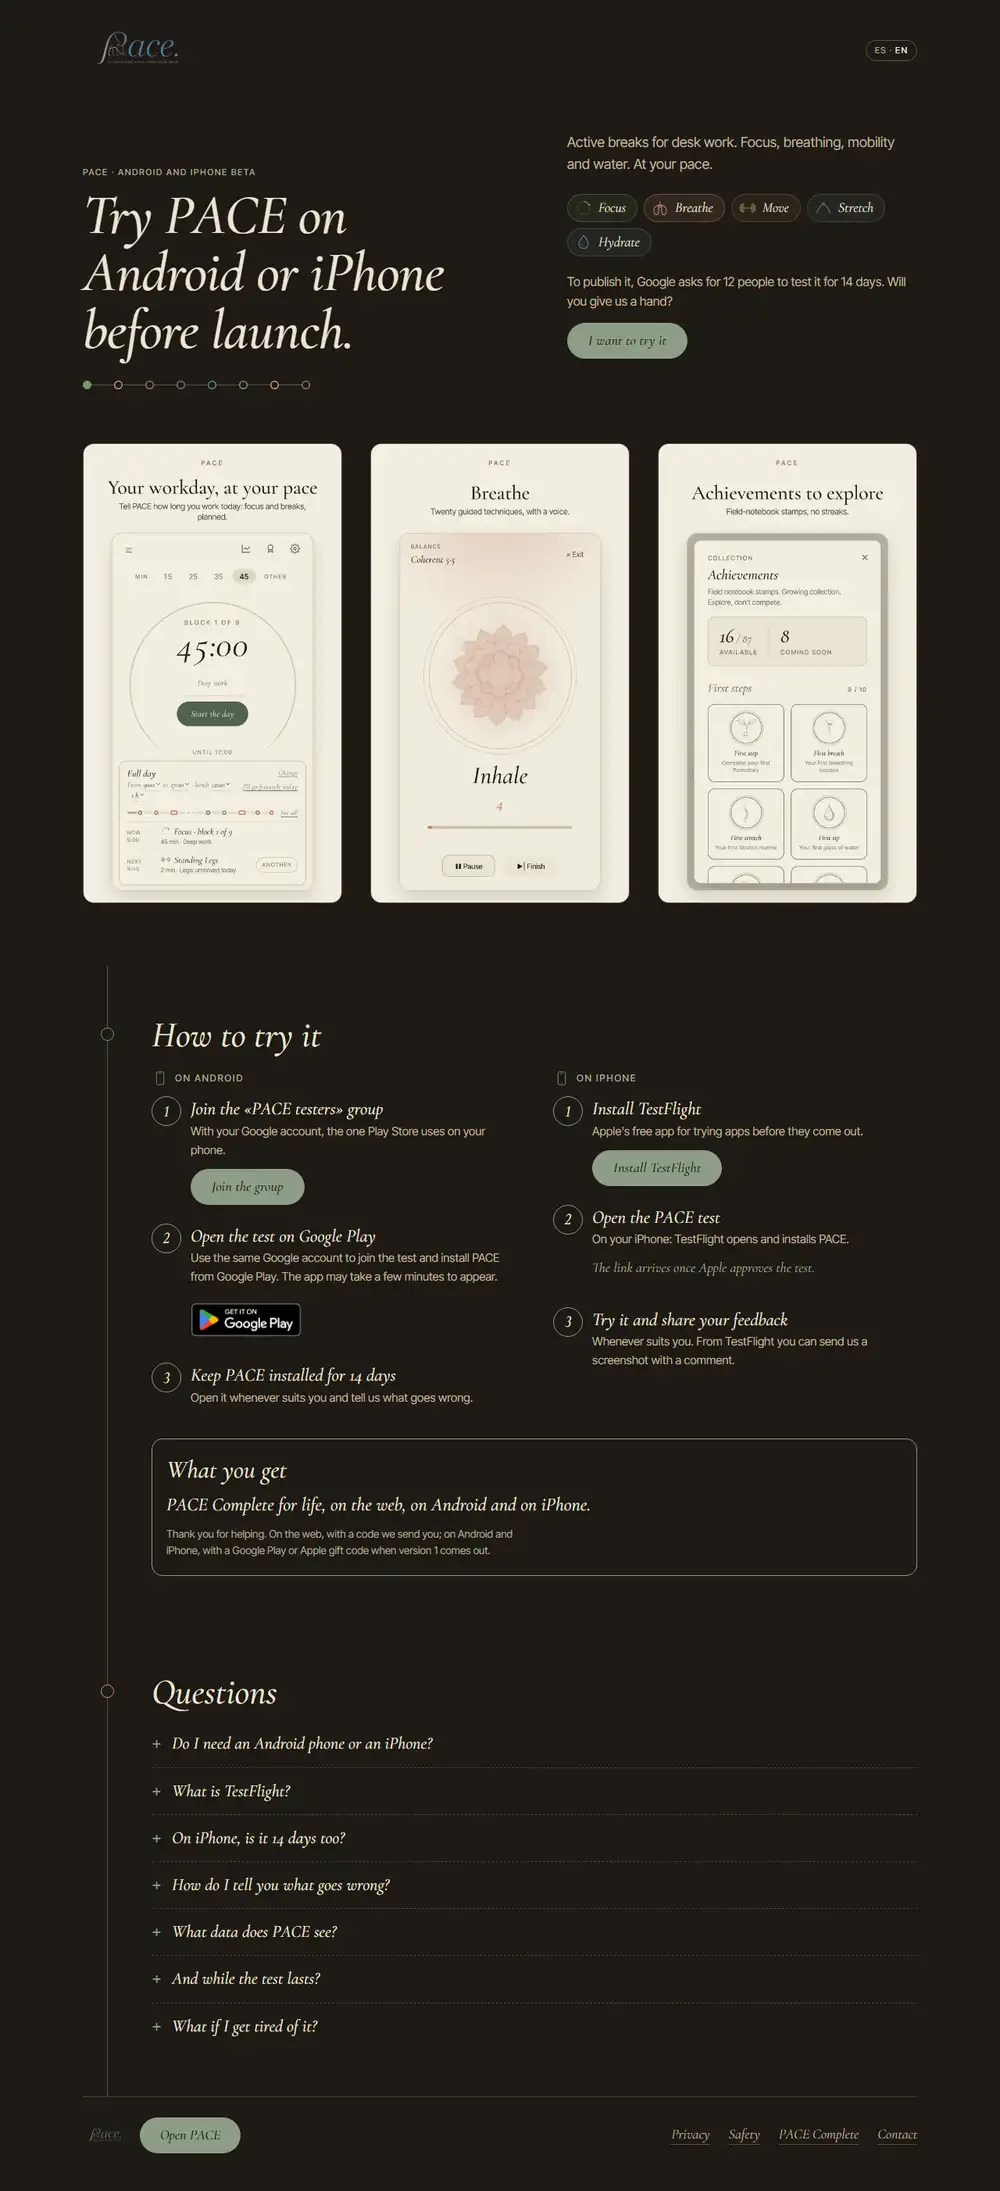
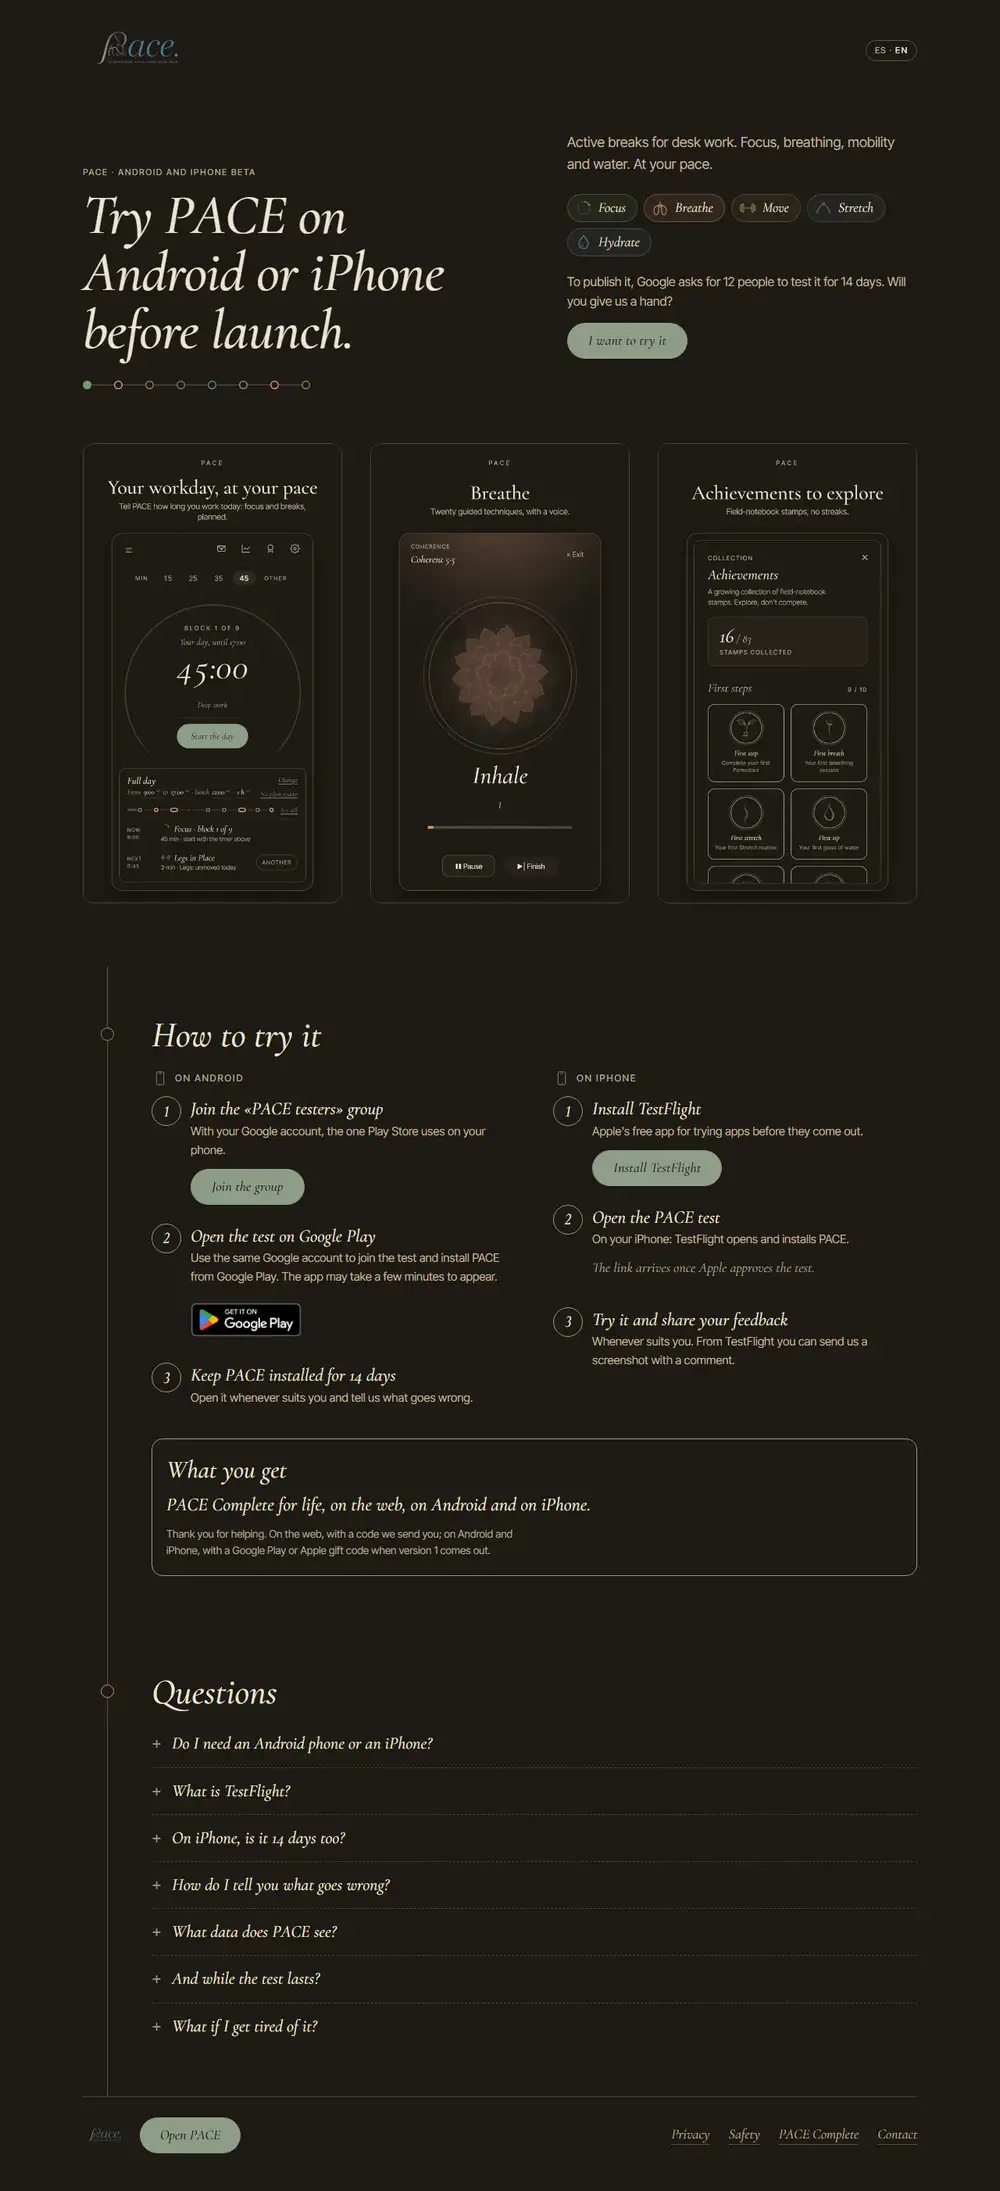
docs: la página de la web con las capturas en oscuro montadas (versión 5)
«Montada: la B» enseña las tres páginas en claro y en oscuro, y la letra 2 pasa a hecha.

Changed region(s): [[0.372, 0.1862, 0.93, 0.4345], [0.062, 0.1862, 0.341, 0.4345]]

diff --git a/docs/proposals/web-estetica-9nov/pagina.js b/docs/proposals/web-estetica-9nov/pagina.js
@@ -93,9 +93,12 @@ const html = `<title>Tres direcciones para la web</title>
   <h2>Montada: la B</h2>
   <p>Las tres páginas tal como quedan, sacadas de la rama. En el visor de más abajo están todas: «Montada», en los dos idiomas, los dos temas, el móvil y el ordenador; en el móvil, con la maqueta de la B al lado.</p>
   <div class="escena">
-    <div class="pantalla movil"><h3>Landing</h3><div class="vidrio"><img src="fotos/montada-landing-360-es-claro.webp" alt="La landing con la B montada, en el móvil" loading="lazy"></div><p class="pie">360 px · castellano · claro</p></div>
-    <div class="pantalla movil"><h3>PACE completo</h3><div class="vidrio"><img src="fotos/montada-premium-360-es-claro.webp" alt="PACE completo con la B montada, en el móvil" loading="lazy"></div><p class="pie">360 px · castellano · claro</p></div>
-    <div class="pantalla movil"><h3>Beta</h3><div class="vidrio"><img src="fotos/montada-beta-360-es-claro.webp" alt="/beta con la B montada, en el móvil" loading="lazy"></div><p class="pie">360 px · castellano · claro</p></div>
+    <div class="pantalla movil"><h3>Landing</h3><div class="vidrio"><img src="fotos/montada-landing-360-es-claro.webp" alt="La landing con la B montada, en el móvil, en claro" loading="lazy"></div><p class="pie">360 px · castellano · claro</p></div>
+    <div class="pantalla movil"><h3>PACE completo</h3><div class="vidrio"><img src="fotos/montada-premium-360-es-claro.webp" alt="PACE completo con la B montada, en el móvil, en claro" loading="lazy"></div><p class="pie">360 px · castellano · claro</p></div>
+    <div class="pantalla movil"><h3>Beta</h3><div class="vidrio"><img src="fotos/montada-beta-360-es-claro.webp" alt="/beta con la B montada, en el móvil, en claro" loading="lazy"></div><p class="pie">360 px · castellano · claro</p></div>
+    <div class="pantalla movil"><h3>Landing</h3><div class="vidrio"><img src="fotos/montada-landing-360-es-oscuro.webp" alt="La landing con la B montada, en el móvil, en oscuro" loading="lazy"></div><p class="pie">360 px · castellano · oscuro</p></div>
+    <div class="pantalla movil"><h3>PACE completo</h3><div class="vidrio"><img src="fotos/montada-premium-360-es-oscuro.webp" alt="PACE completo con la B montada, en el móvil, en oscuro" loading="lazy"></div><p class="pie">360 px · castellano · oscuro</p></div>
+    <div class="pantalla movil"><h3>Beta</h3><div class="vidrio"><img src="fotos/montada-beta-360-es-oscuro.webp" alt="/beta con la B montada, en el móvil, en oscuro" loading="lazy"></div><p class="pie">360 px · castellano · oscuro</p></div>
   </div>
   <h3 style="margin-top:28px">Lo que cambia respecto a la maqueta</h3>
   <ul class="defectos" style="counter-reset:none">
@@ -108,7 +111,7 @@ const html = `<title>Tres direcciones para la web</title>
     <li style="grid-template-columns:1fr"><span><b>3 · El pie enlaza a las otras dos páginas: sí.</b> Con textos que ya existían: «Android e iPhone» en la landing y en PACE completo, «PACE completo» en /beta.</span></li>
     <li style="grid-template-columns:1fr"><span><b>4 · La pantalla de la app de PACE completo, en su idioma y su tema: sí.</b> Sacada de la app de la rama; la de antes salía en castellano y en claro.</span></li>
     <li style="grid-template-columns:1fr"><span><b>5 · El idioma de entrada, como la landing: sí.</b> PACE completo y /beta salen en castellano si el navegador está en castellano y, si no, en inglés.</span></li>
-    <li style="grid-template-columns:1fr"><span><b>2 · Las capturas en oscuro: sí, pero en otra tanda.</b> Son dieciséis capturas con su marco que hay que rehacer; hasta entonces, en oscuro siguen saliendo en claro, como hoy.</span></li>
+    <li style="grid-template-columns:1fr"><span><b>2 · Las capturas en oscuro: sí.</b> Las dieciséis de /beta y de PACE completo, rehechas con la app de la rama y su marco en oscuro; cada navegador baja solo las de su tema.</span></li>
   </ul>
   <p class="nota">Lo de abajo es la propuesta tal como la viste: los defectos de antes, las tres direcciones y tus letras.</p>
 

diff --git a/docs/proposals/web-estetica-9nov/index.html b/docs/proposals/web-estetica-9nov/index.html
@@ -70,9 +70,12 @@
   <h2>Montada: la B</h2>
   <p>Las tres páginas tal como quedan, sacadas de la rama. En el visor de más abajo están todas: «Montada», en los dos idiomas, los dos temas, el móvil y el ordenador; en el móvil, con la maqueta de la B al lado.</p>
   <div class="escena">
-    <div class="pantalla movil"><h3>Landing</h3><div class="vidrio"><img src="fotos/montada-landing-360-es-claro.webp" alt="La landing con la B montada, en el móvil" loading="lazy"></div><p class="pie">360 px · castellano · claro</p></div>
-    <div class="pantalla movil"><h3>PACE completo</h3><div class="vidrio"><img src="fotos/montada-premium-360-es-claro.webp" alt="PACE completo con la B montada, en el móvil" loading="lazy"></div><p class="pie">360 px · castellano · claro</p></div>
-    <div class="pantalla movil"><h3>Beta</h3><div class="vidrio"><img src="fotos/montada-beta-360-es-claro.webp" alt="/beta con la B montada, en el móvil" loading="lazy"></div><p class="pie">360 px · castellano · claro</p></div>
+    <div class="pantalla movil"><h3>Landing</h3><div class="vidrio"><img src="fotos/montada-landing-360-es-claro.webp" alt="La landing con la B montada, en el móvil, en claro" loading="lazy"></div><p class="pie">360 px · castellano · claro</p></div>
+    <div class="pantalla movil"><h3>PACE completo</h3><div class="vidrio"><img src="fotos/montada-premium-360-es-claro.webp" alt="PACE completo con la B montada, en el móvil, en claro" loading="lazy"></div><p class="pie">360 px · castellano · claro</p></div>
+    <div class="pantalla movil"><h3>Beta</h3><div class="vidrio"><img src="fotos/montada-beta-360-es-claro.webp" alt="/beta con la B montada, en el móvil, en claro" loading="lazy"></div><p class="pie">360 px · castellano · claro</p></div>
+    <div class="pantalla movil"><h3>Landing</h3><div class="vidrio"><img src="fotos/montada-landing-360-es-oscuro.webp" alt="La landing con la B montada, en el móvil, en oscuro" loading="lazy"></div><p class="pie">360 px · castellano · oscuro</p></div>
+    <div class="pantalla movil"><h3>PACE completo</h3><div class="vidrio"><img src="fotos/montada-premium-360-es-oscuro.webp" alt="PACE completo con la B montada, en el móvil, en oscuro" loading="lazy"></div><p class="pie">360 px · castellano · oscuro</p></div>
+    <div class="pantalla movil"><h3>Beta</h3><div class="vidrio"><img src="fotos/montada-beta-360-es-oscuro.webp" alt="/beta con la B montada, en el móvil, en oscuro" loading="lazy"></div><p class="pie">360 px · castellano · oscuro</p></div>
   </div>
   <h3 style="margin-top:28px">Lo que cambia respecto a la maqueta</h3>
   <ul class="defectos" style="counter-reset:none">
@@ -85,7 +88,7 @@
     <li style="grid-template-columns:1fr"><span><b>3 · El pie enlaza a las otras dos páginas: sí.</b> Con textos que ya existían: «Android e iPhone» en la landing y en PACE completo, «PACE completo» en /beta.</span></li>
     <li style="grid-template-columns:1fr"><span><b>4 · La pantalla de la app de PACE completo, en su idioma y su tema: sí.</b> Sacada de la app de la rama; la de antes salía en castellano y en claro.</span></li>
     <li style="grid-template-columns:1fr"><span><b>5 · El idioma de entrada, como la landing: sí.</b> PACE completo y /beta salen en castellano si el navegador está en castellano y, si no, en inglés.</span></li>
-    <li style="grid-template-columns:1fr"><span><b>2 · Las capturas en oscuro: sí, pero en otra tanda.</b> Son dieciséis capturas con su marco que hay que rehacer; hasta entonces, en oscuro siguen saliendo en claro, como hoy.</span></li>
+    <li style="grid-template-columns:1fr"><span><b>2 · Las capturas en oscuro: sí.</b> Las dieciséis de /beta y de PACE completo, rehechas con la app de la rama y su marco en oscuro; cada navegador baja solo las de su tema.</span></li>
   </ul>
   <p class="nota">Lo de abajo es la propuesta tal como la viste: los defectos de antes, las tres direcciones y tus letras.</p>
 

diff --git a/docs/proposals/web-estetica-9nov/DONDE-ME-QUEDO.md b/docs/proposals/web-estetica-9nov/DONDE-ME-QUEDO.md
@@ -27,5 +27,5 @@ después `node docs/proposals/web-estetica-9nov/recortes.js --dist=<la carpeta d
 En 769ea1b8: el CSS de la B en `landing/landing.css` y en los `<style>` de `premium/index.html` y
 `beta/index.html`; la portada de /beta en dos grupos (`.cabeza`); la pantalla de la app de /premium por
 idioma y tema (`premium/app-*-{es,en}-{claro,oscuro}.webp`, de `capturas-app.js`); y las letras 3, 4 y 5
-recomendadas. **Falta la 2**: rehacer en oscuro las capturas de /beta y de PACE completo con su marco.
+recomendadas. La 2 (capturas en oscuro), en b259ae77: `capturas.js --beta-oscuro` y `capturas-premium.js --oscuro`.
 Las fotos de lo montado son `fotos/montada-*`; `comparar.js` las cruza con las de la maqueta de la B.
